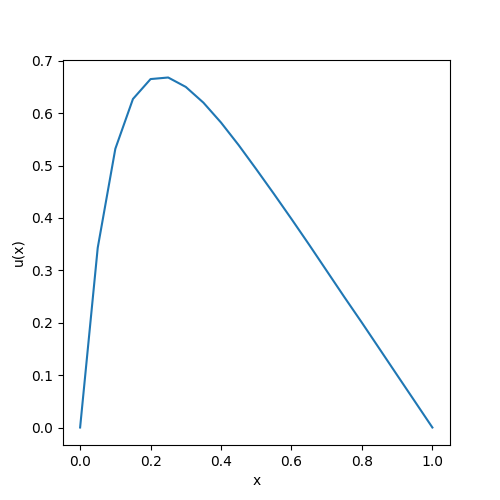
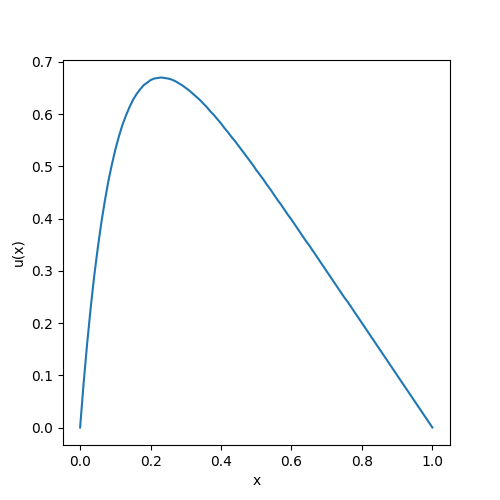
plotter update

diff --git a/p1-2.cpp b/p1-2.cpp
@@ -6,7 +6,7 @@
 
 
 double ux(double x);
-int x_length=20;
+int x_length=100;
 
 int main ()
 {
@@ -14,7 +14,7 @@ int main ()
     std::vector<double> x(x_length+1);  
     std::vector<double> ux_out(x_length+1);  
 
-    std::string filename = "output.csv";
+    std::string filename = "out_p1-2.csv";
     std::ofstream ofile;
     ofile.open(filename);
 
@@ -23,7 +23,7 @@ int main ()
       x[i] = i/(x_length); // assign x values
       ux_out[i] = ux(x[i]); // calculate u(x)
 
-      ofile << std::setprecision(2) << std::scientific << x[i] << "\t" << ux_out[i] << std::endl; //print to file
+      ofile << std::setprecision(2) << std::scientific << x[i] << "," << ux_out[i] << std::endl; //print to file
     }
 
   ofile.close();
